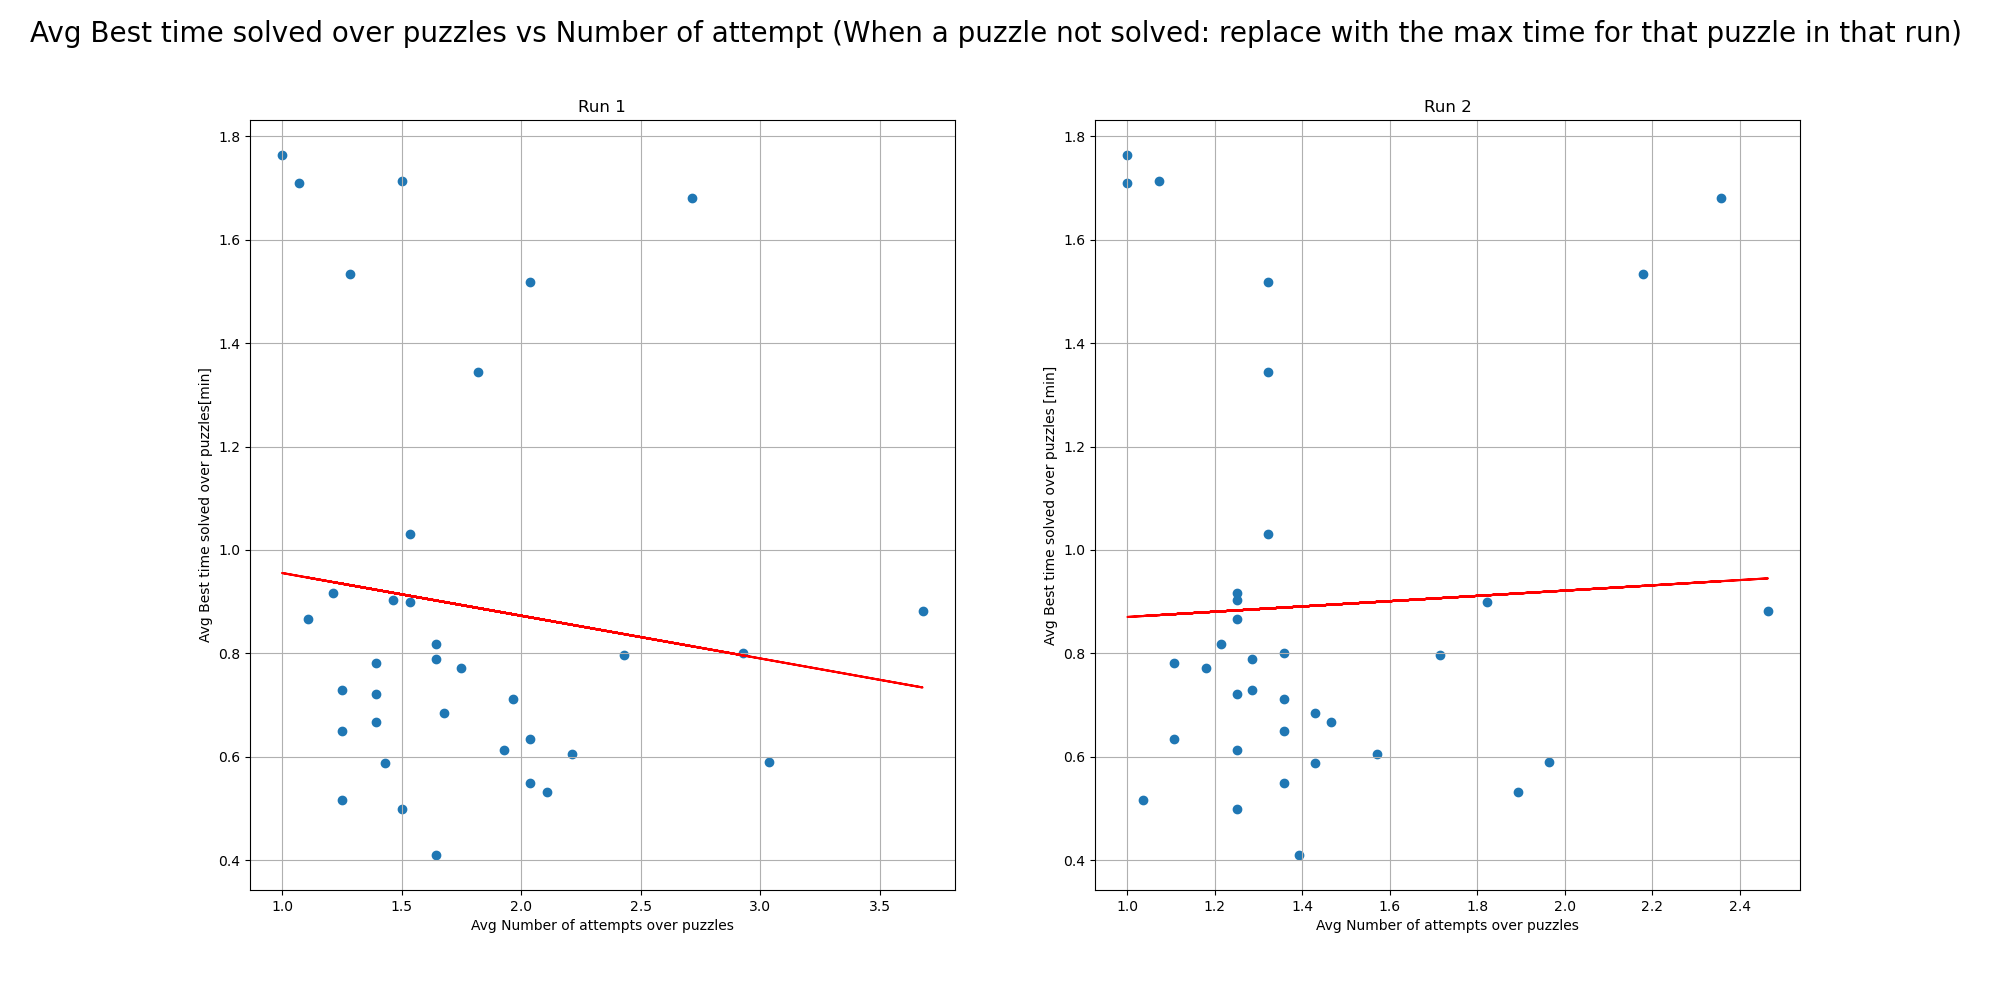
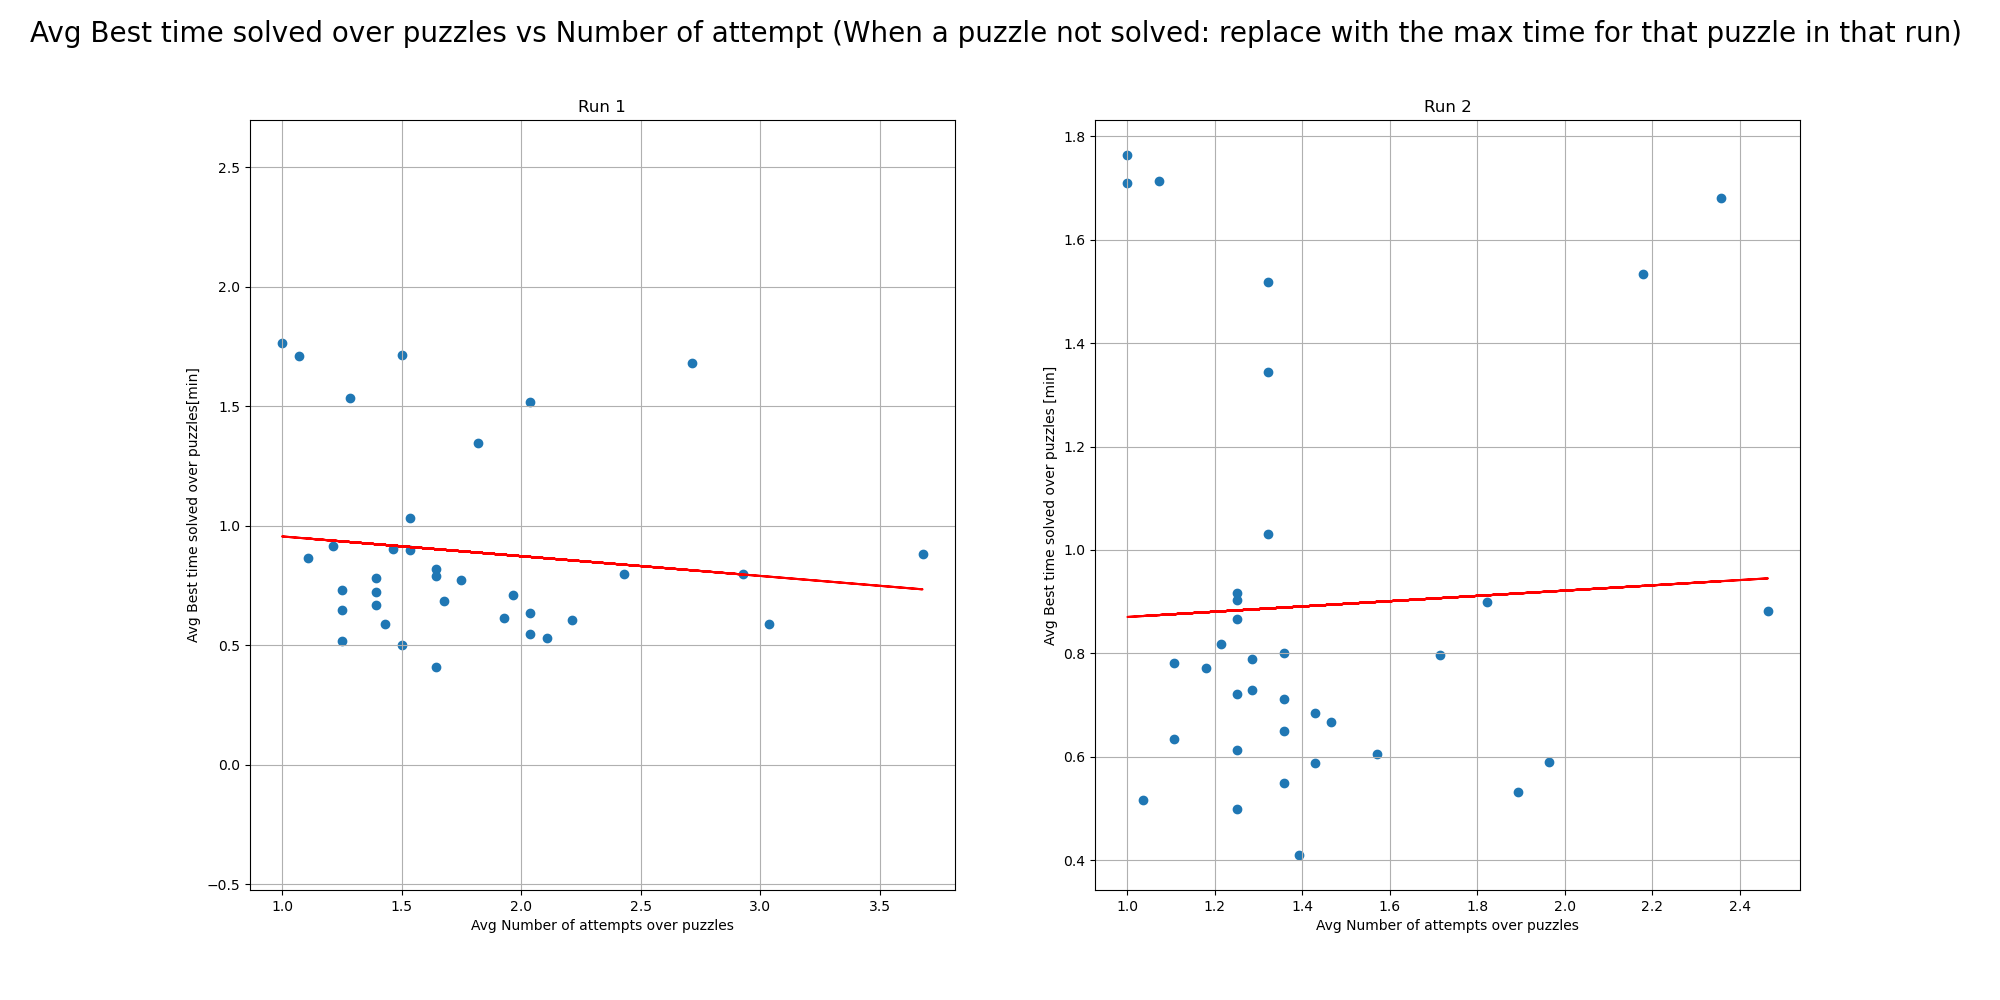
same axis for plot

diff --git a/SRC/plotAttempTIme.py b/SRC/plotAttempTIme.py
@@ -39,6 +39,9 @@ plt.xlabel('Avg Number of attempts over puzzles')
 plt.ylabel('Avg Best time solved over puzzles[min]')
 plt.title('Run 1')
 plt.grid()
+#make the x and y same scale
+plt.axis('equal')
+
 #add a regression line
 # Compute and add a regression line
 m, b = np.polyfit(-attempts_1.flatten(), data_1.flatten(), 1)
